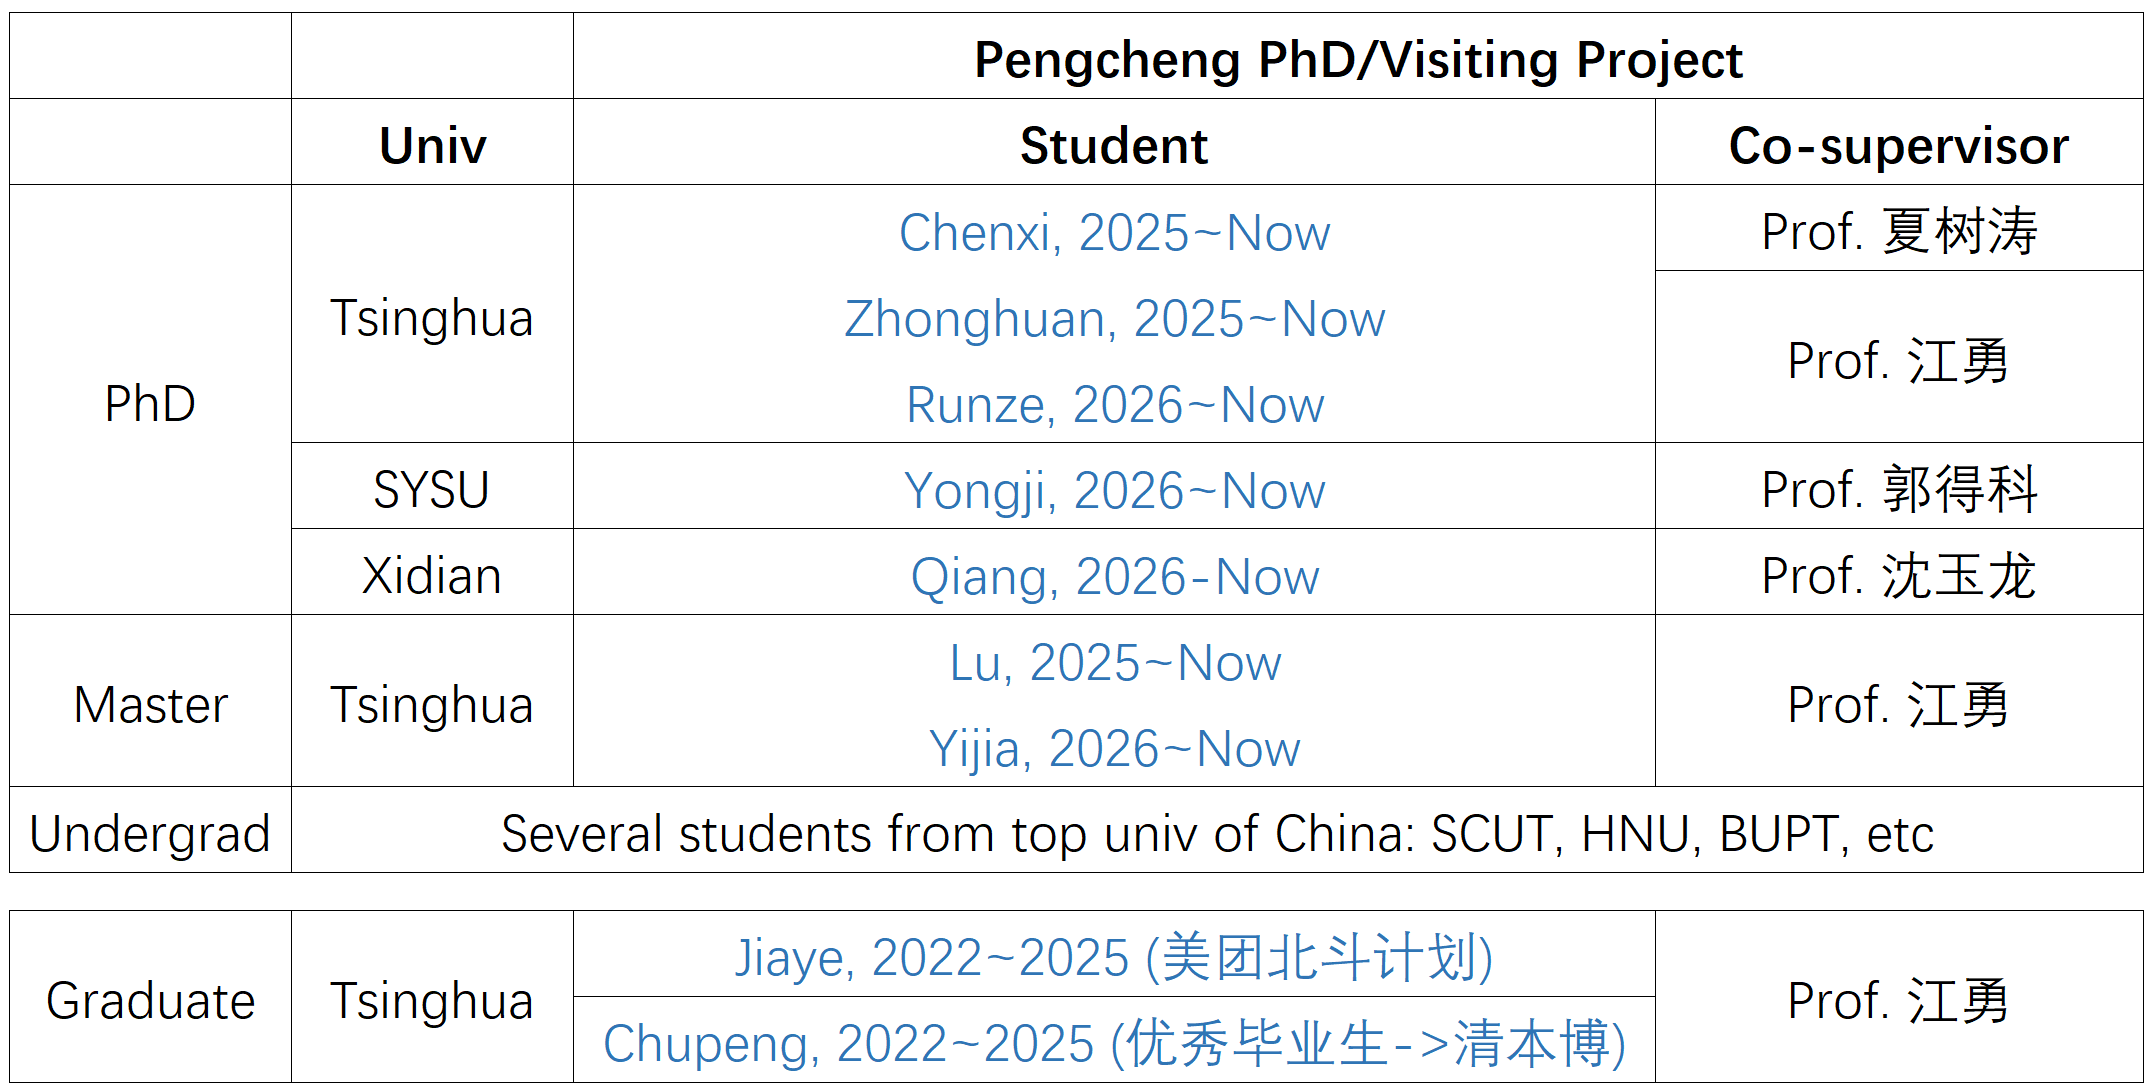
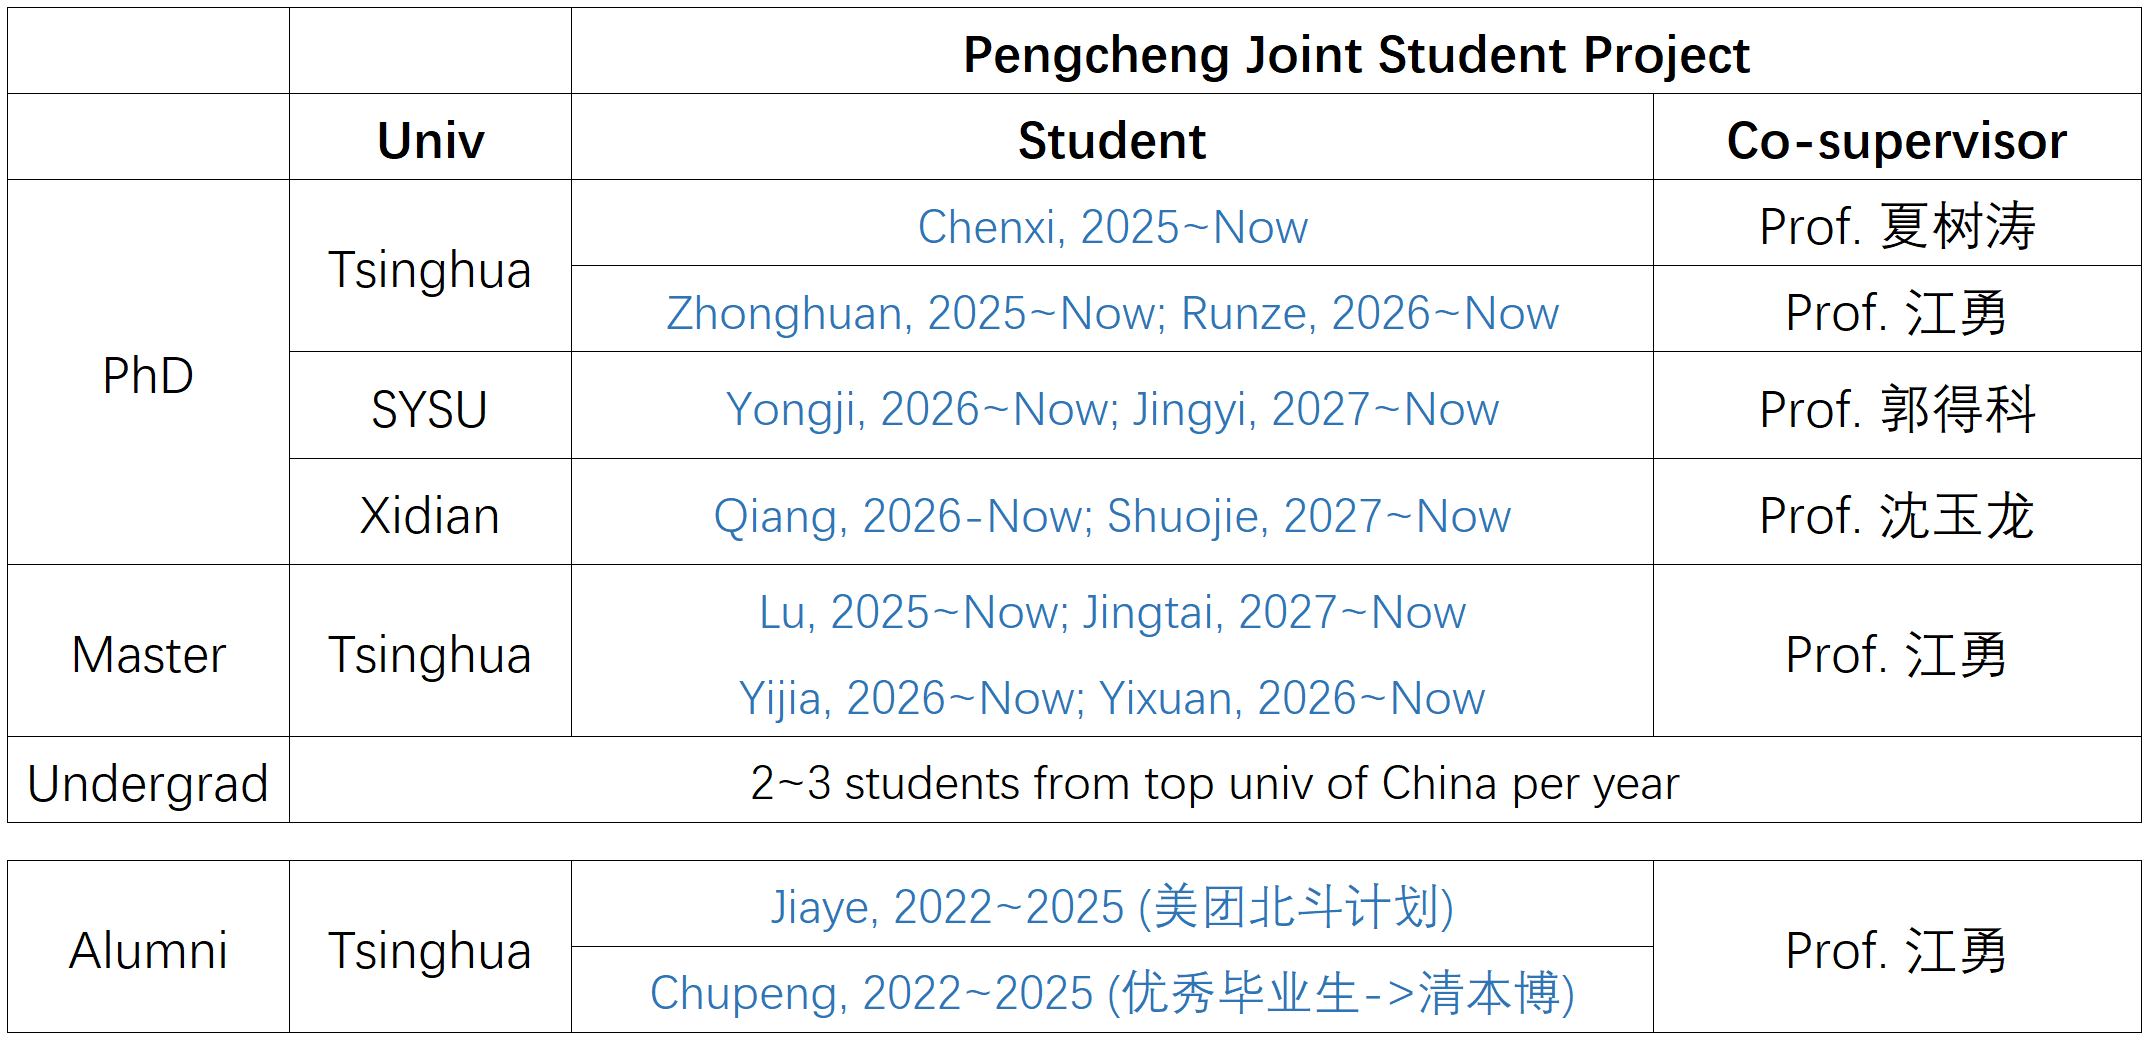
update info

diff --git a/index.html b/index.html
@@ -355,7 +355,7 @@
                 xiegrr[AT]gmail.com
             </div>
             <div class="copyright">
-                Last updated by @豆包 2026.06<br>
+                Created by @豆包, updated: 2026.10<br>
             </div>
             
             <!-- pageviews - 已移除边框 -->
@@ -376,7 +376,7 @@
                     Now I am an <strong>Assistant Researcher</strong> (PhD supervisor) at <a href="https://www.pcl.ac.cn/">Pengcheng Laboratory</a>(PCL). My research interests are: programmable network, P4. I have published 20+ papers in NSDI, INFOCOM, ICNP, ToN, etc.
                 </p>
                 <p>
-                    2019年本科毕业于中山大学，2024年博士毕业于清华大学，曾获国家留学基金资助海外联培（2023~2024）、腾讯青云计划、CCF分布式论文激励计划（2026）。目前是鹏城实验室（PCL）<b>助理研究员、博导</b>（<a href="https://smartinternet.group/">清华智能网络团队</a>），研究P4可编程网络、Net4AI（RDMA通信优化）、AI4Net（智能流量分析/LLM网络运维）等，在NSDI、INFOCOM、ICNP、ToN等刊物发表论文20余篇。
+                    2019年本科毕业于中山大学，2024年博士毕业于清华大学，曾获国家留学基金资助海外联培（2023~2024）、腾讯青云计划、CCF分布式计算大会论文激励计划（2026）。目前是鹏城实验室（PCL）<b>助理研究员、博导</b>（<a href="https://smartinternet.group/">清华智能网络团队</a>），研究P4可编程网络、Net4AI（RDMA通信优化）、AI4Net（智能流量分析/LLM网络运维）等，在NSDI、INFOCOM、ICNP、ToN等刊物发表论文20余篇。
                 </p>
             </section>
 
@@ -385,10 +385,10 @@
                 <h2>News <span>🔥</span></h2>
                 <ul class="news-list">
                     <li>
-                        每年招收2-3名<a href="https://yzw.pcl.ac.cn/home">鹏城联培博士（科研平台高、津贴丰厚）</a>：<a href="https://docs.qq.com/doc/DRkFDb0dHbXdKY0R6">西安电子科技大学</a>、<a href="https://docs.qq.com/doc/DRnR1dVRKR01wc0tu">中山大学</a>。
+                        每年招收2-3名<a href="https://yzw.pcl.ac.cn/home">鹏城联培博士（科研平台高、税后津贴可达20w/年/生）</a>：<a href="https://docs.qq.com/doc/DRkFDb0dHbXdKY0R6">西安电子科技大学</a>、<a href="https://docs.qq.com/doc/DRnR1dVRKR01wc0tu">中山大学</a>。
                     </li>
                     <li>
-                        长期招收远程科研实习：大二/大三本科生（<a href="https://docs.qq.com/doc/DRnJCZlZudWNiaXhF">可推免清华 or 鹏城联培直博</a>）、硕士生（可申请普博2-3名，鹏城联培）。
+                        长期招收远程科研实习：大二/大三本科生（<a href="https://docs.qq.com/doc/DRnJCZlZudWNiaXhF">可推荐合作导师江勇教授的清华普通硕/博及本人鹏城联培直博</a>）、硕士生（可推荐鹏城联培普博）。
                     </li>
                     <li>
                         长期招聘PCL研究人员及博后（P4、传输等网络系统、边缘计算等多方向），博后年薪56万+，海外回国博后68万+。
@@ -453,7 +453,7 @@
             <section id="services" class="section">
                 <h2>Services</h2>
                 <p>
-                    TPC Member of <a href="https://conferences.sigcomm.org/co-next/2026/">ACM CoNEXT26</a>, Editor of ACM journal <a href="https://dl.acm.org/journal/pacmnet/editorial-board">PACMNET (2026)</a><br/>
+                    TPC Member of <a href="https://conferences.sigcomm.org/co-next/2026/#!/pc">ACM CoNEXT26</a>, Editor of ACM journal <a href="https://dl.acm.org/journal/pacmnet/editorial-board">PACMNET (2026)</a><br/>
                 Reviewer of IEEE ToN, JSAC, TDSC, Computer Networks, WWW25~26, etc.<br/>
                 CCF分布式计算与系统、互联网专委会委员
                 </p>
